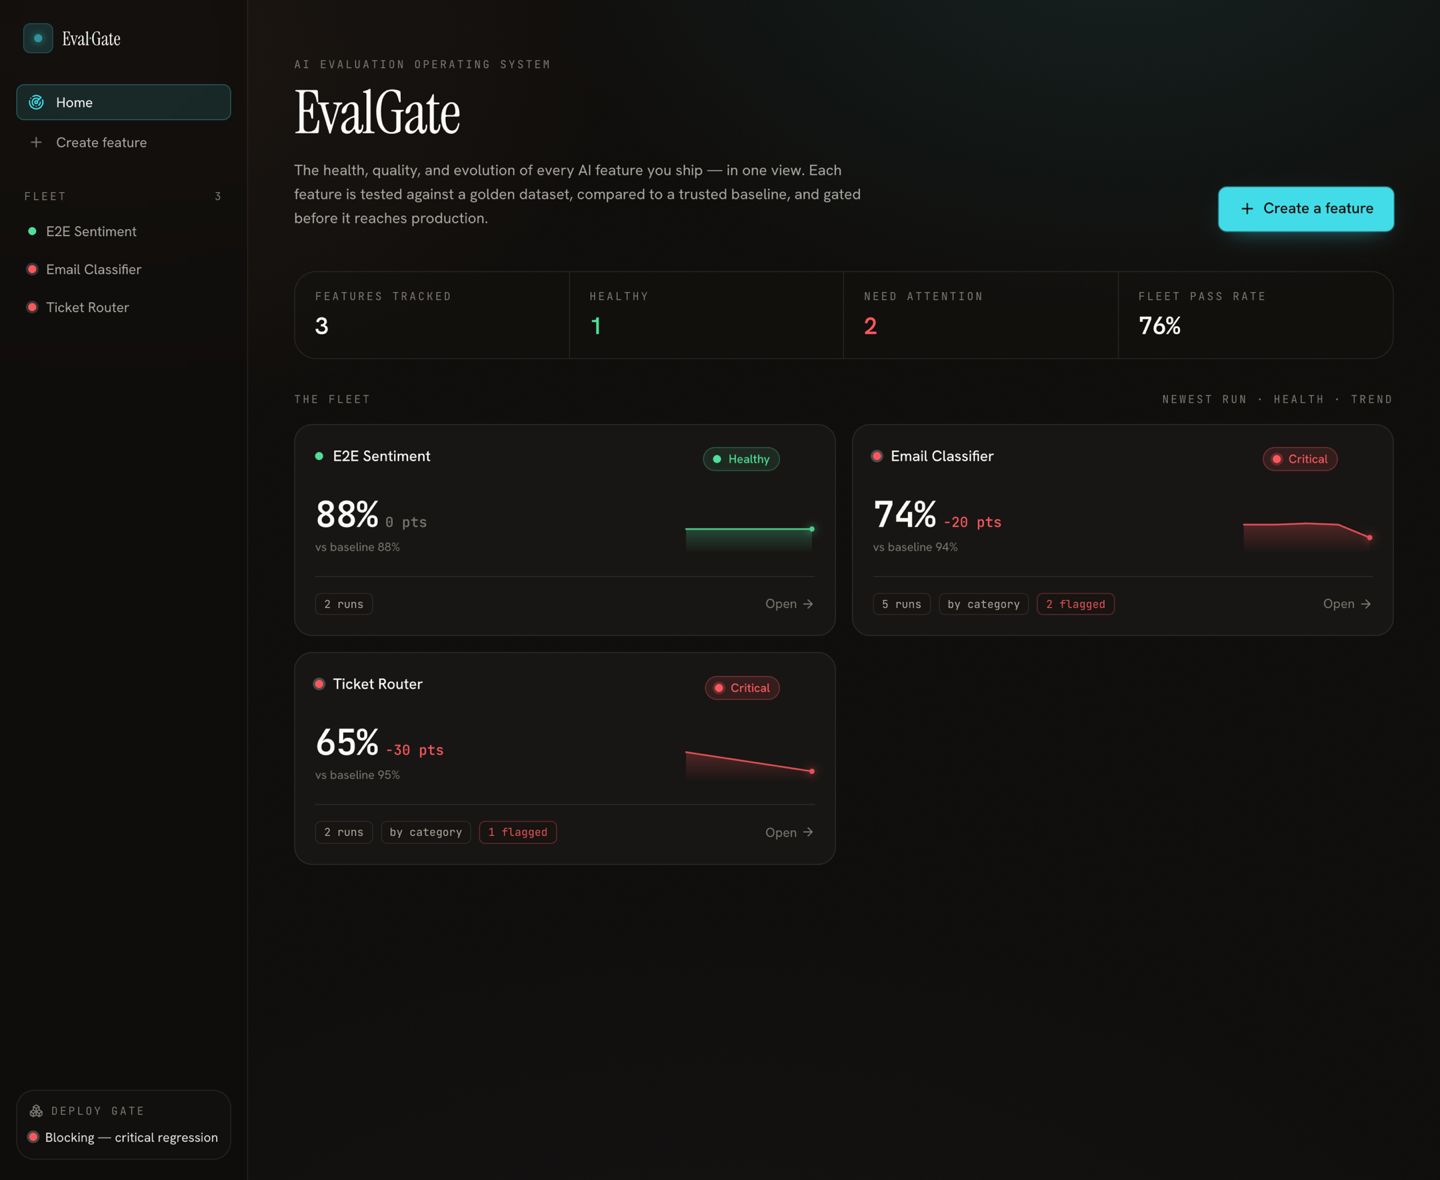
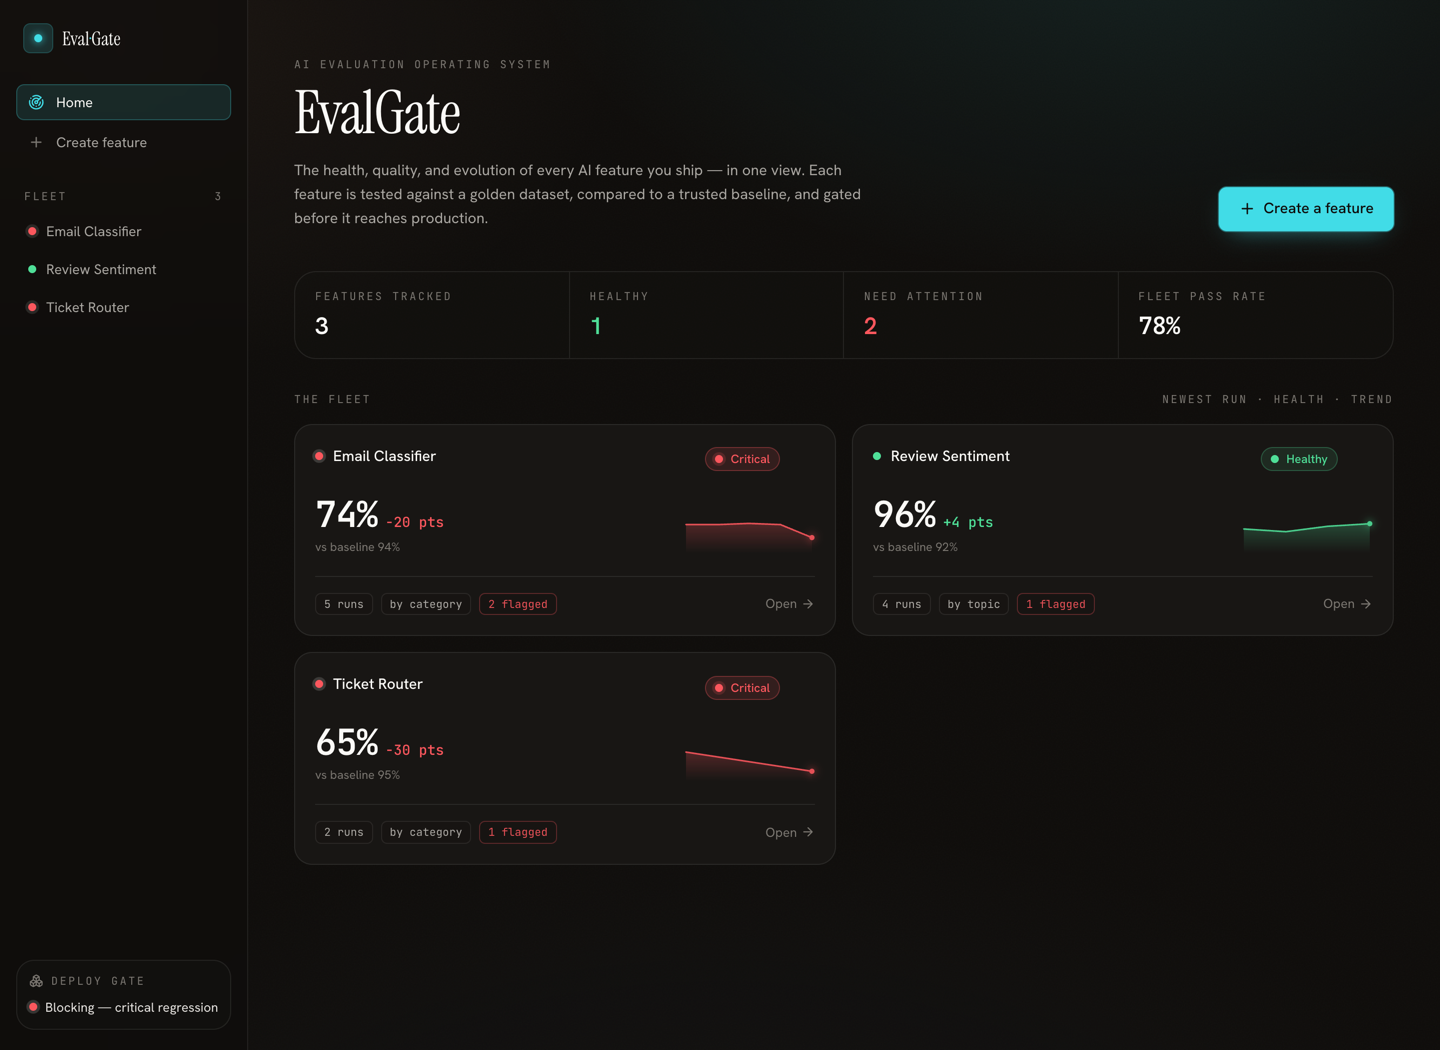
docs(readme): refresh the screenshots for the final fleet
The home shot still had a deleted test feature in it, and nothing showed a gate
that opens. Adds the passing feature's run analysis beside the failing one.

diff --git a/README.md b/README.md
@@ -24,6 +24,10 @@
 
 <p align="center"><sub><b>Every AI feature you ship, with its verdict.</b> Pass rate against a trusted baseline, trend, and whether the deploy gate is open or blocking.</sub></p>
 
+![A feature that passes its gate — 96%, four points above baseline](docs/images/run-analysis.png)
+
+<p align="center"><sub><b>And what passing looks like.</b> The same screen for a feature that regressed, was fixed, and now clears the baseline its repair was promoted to — the gate is open.</sub></p>
+
 ![Root-cause analysis — the exact cases behind a regressed metric](docs/images/regressions.png)
 
 <p align="center"><sub><b>A number dropped — here is what the model got wrong.</b> Every regressed metric traces to the individual cases that caused it, with the expected and actual output side by side.</sub></p>
